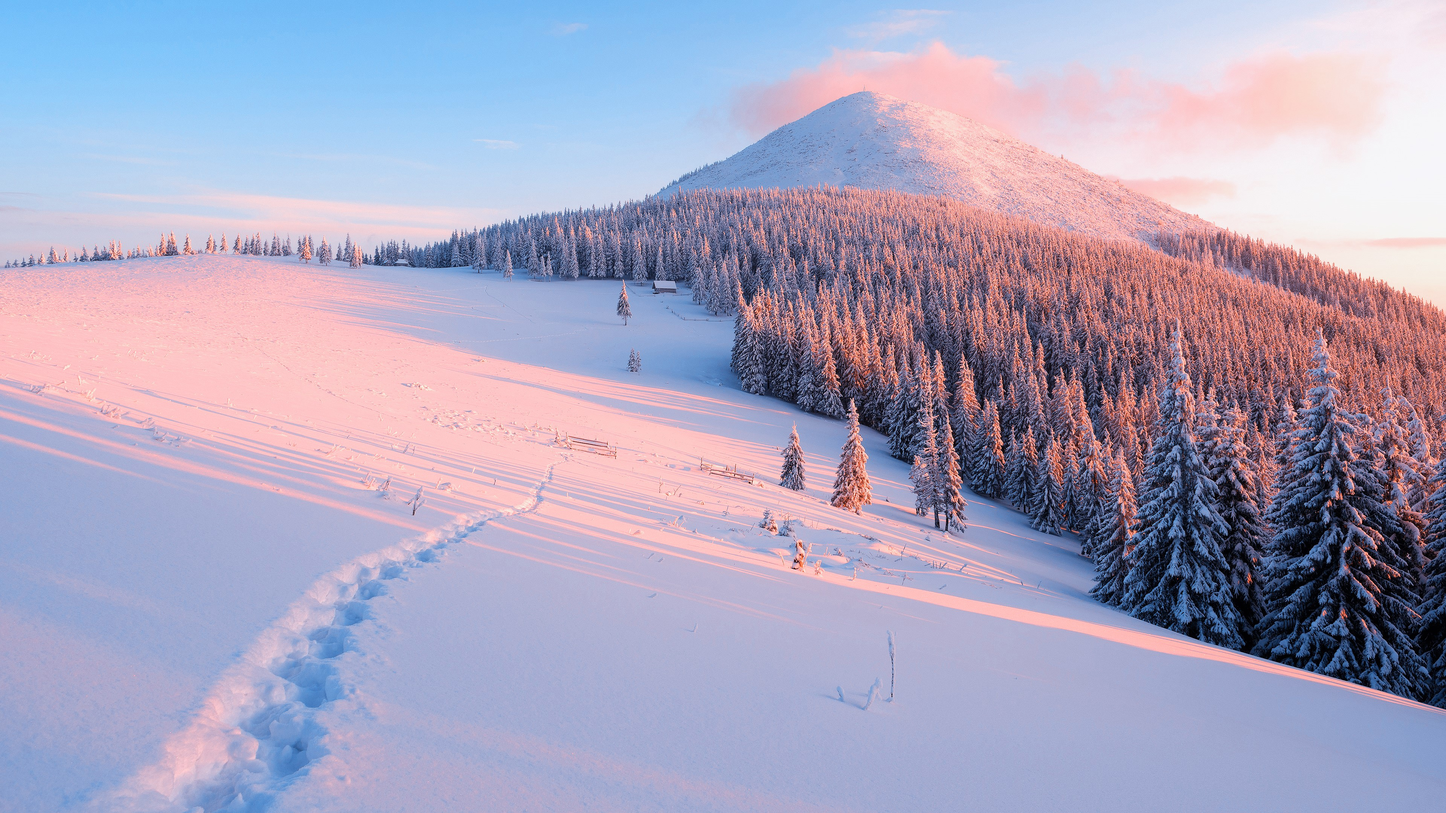
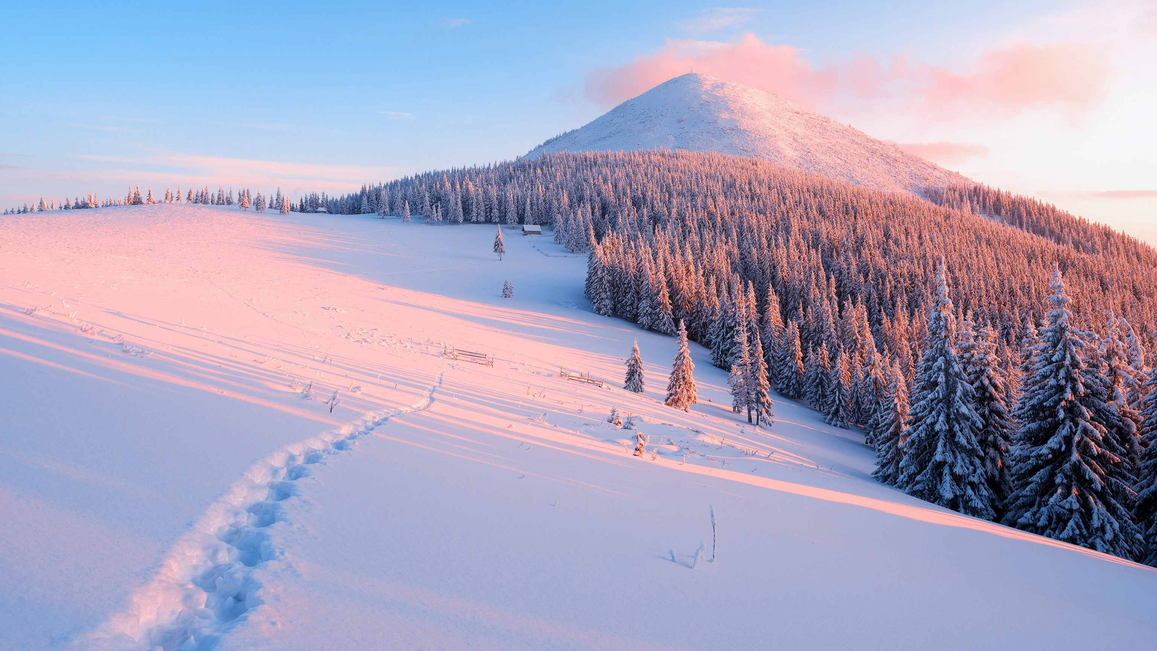
Site updated: 2020-01-04 12:19:09

diff --git a/css/main.css b/css/main.css
@@ -1822,7 +1822,7 @@ pre .javascript .function {
   width: 4px;
   height: 4px;
   border-radius: 50%;
-  background: #24ffff;
+  background: #fcc15c;
 }
 .links-of-blogroll {
   font-size: 13px;
@@ -3122,6 +3122,7 @@ pre .javascript .function {
   }
 }
 body {
+  background: url("/images/2020_1.jpg");
   background-size: cover;
   background-repeat: no-repeat;
   background-attachment: fixed;
